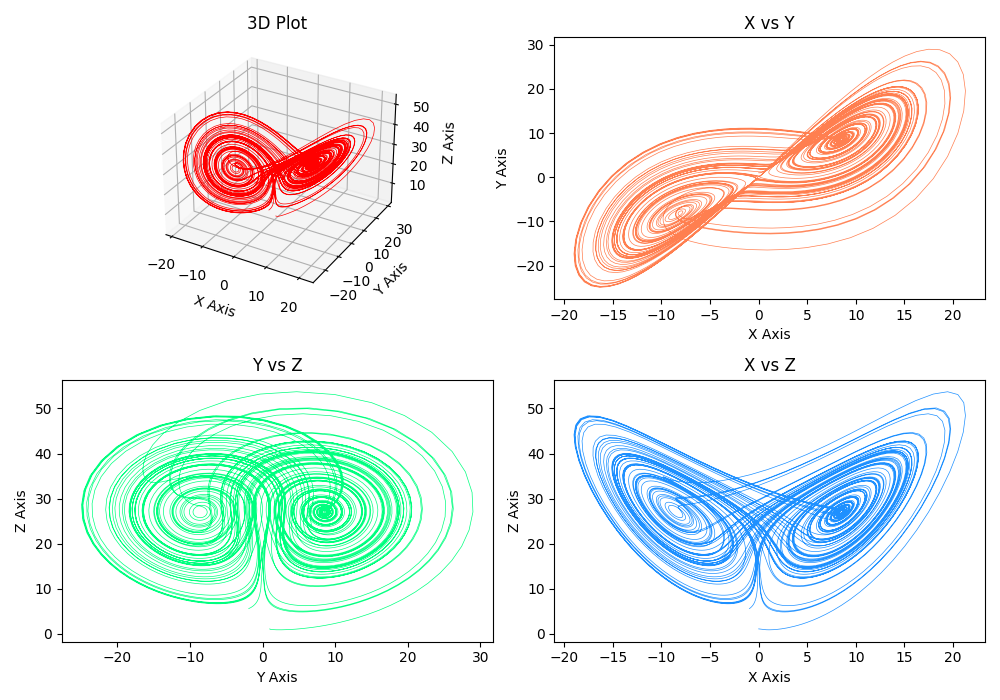
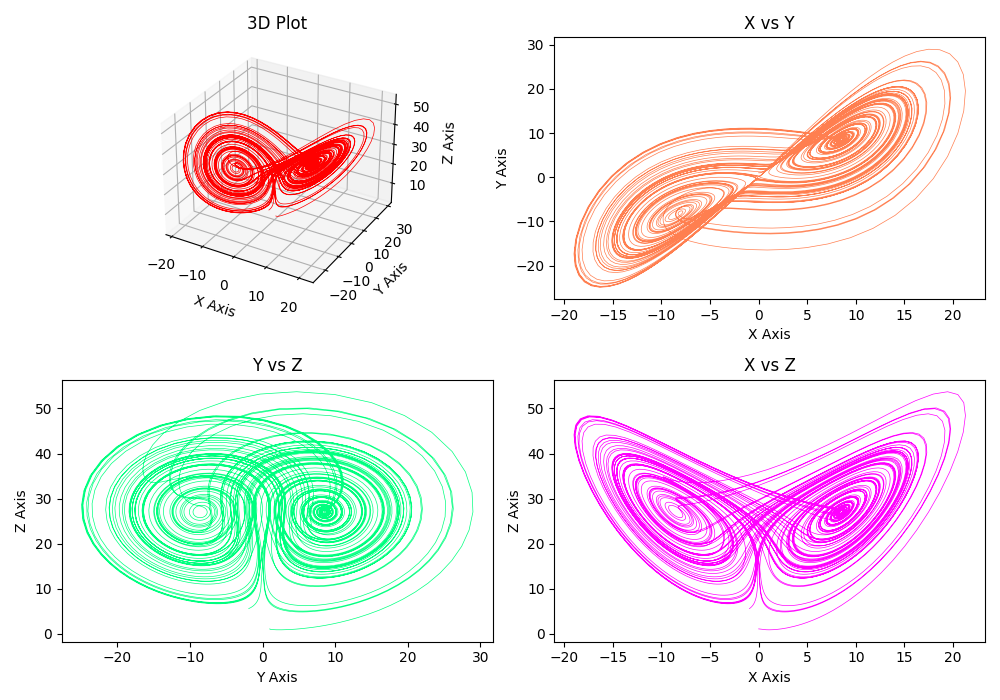
update readme

Changed region(s): [[0.558, 0.57, 0.961, 0.87], [0.775, 0.87, 0.806, 0.9]]

diff --git a/2D_lorenzattractor.py b/2D_lorenzattractor.py
@@ -54,7 +54,7 @@ def main(inputs):
 
     # X vs Z plot
     ax4 = fig.add_subplot(2, 2, 4)
-    ax4.plot(xs, zs, lw=0.5, color='dodgerblue')
+    ax4.plot(xs, zs, lw=0.5, color='magenta')
     ax4.set_xlabel("X Axis")
     ax4.set_ylabel("Z Axis")
     ax4.set_title("X vs Z")
